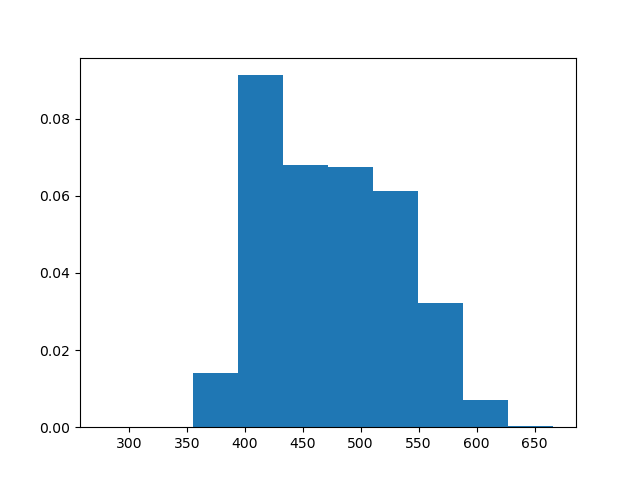
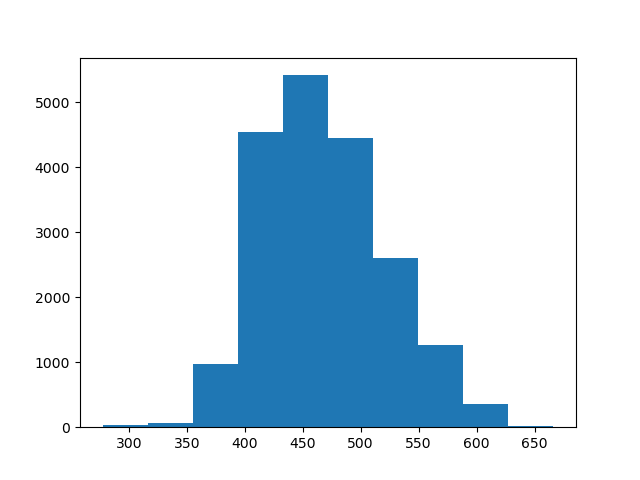
no mass

diff --git a/main.py b/main.py
@@ -44,7 +44,6 @@ v_min = np.nanmin(rad_velocity)
 
 #First attemption of histogram
 #Note: There is no meaning of the actual numbers here!
-n, bins, patches = plt.hist(rad_velocity, weights = HIMASS)
+n, bins, patches = plt.hist(rad_velocity)#, weights = HIMASS)
 plt.savefig('test.png',format='png')
-plt.show(block=True)
 
